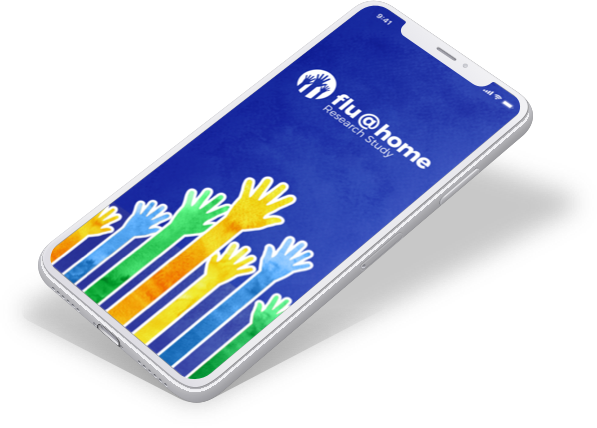
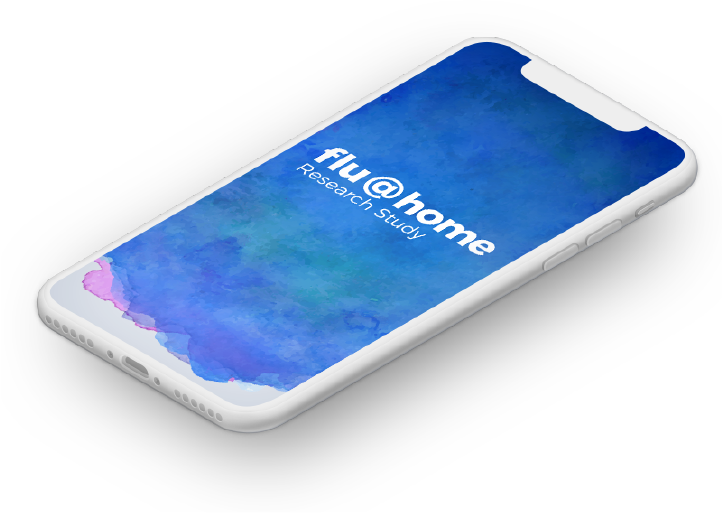
FEV-753 Updated home page of fluathome.org.au (#1407)
* FEV-757 Updated home page of fluathome.org.au

Added the new images and changed the how it works to how to participate. Changed the video

* FEV-753

Removing unused images

diff --git a/FluStudy_au/fluathome.org.au/home.html b/FluStudy_au/fluathome.org.au/home.html
@@ -76,63 +76,56 @@
                     <div class="how-it-works-bg">
                             <div class="how-it-works-diagonal"></div>
                     <div class="how-it-works-copy">
-                        <div class="steps-bar"></div>
-                        <h2>How it Works</h2>
-                        <p>Follow these steps to complete the study!</p>
+                        
+                        <h2>How to participate</h2>
                             <div class="steps">
                                 <div class="step-box">
                                     <div class="step one">
-                                        <img src="img/icon_HowItWorks_Step1.svg" alt="Receive flu@home Kit">
+                                        <img src="img/havesymptoms.png" alt="Receive flu@home Kit">
                                     </div>
                                     <div class="indicator one"></div>
-                                    <h3 class="two">Receive the flu@home Kit</h3>
+                                    <h3 class="two">Have flu-like symptoms? Visit your General Practitioner (GP)</h3>
                                 </div>
 
                                 <div class="step-box">
                                     <div class="step two">
-                                        <img src="img/icon_HowItWorks_Step2.svg" alt="Download the App">
+                                        <img src="img/areeligible.png" alt="Receive flu@home Kit">
                                     </div>
                                     <div class="indicator two"></div>
-                                    <h3 class="one">Download the App</h3>
+                                    <h3 class="one">If eligible, your GP will give you a test kit to complete at home</h3>
                                 </div>
 
                                 <div class="step-box">
                                     <div class="step three">
-                                        <img src="img/icon_HowItWorks_Step3.svg" alt="Complete Study">
+                                        <img src="img/downloadapp.png" alt="Download the App">
                                     </div>
                                     <div class="indicator three"></div>
-                                    <h3 class="three">Complete Study</h3>
+                                    <h3 class="three">Download the flu@home app. It will lead you through the test steps</h3>
                                 </div>
 
+				<div class="step-box">
+				    <div class="step four">
+					<img src="img/testresults.png" alt="Test Results">
+				    </div>
+				    <div class="indicator four"></div>
+				    <h3 class="four">The app will guide you through reading your flu test results</h3>
+					
+				</div>
+
                             </div>
-                            <div class="info">
-                                <p>The test itself takes about twenty minutes and only needs you to answer a few questions in the app telling us how you’re feeling and gently swab your nose. Please note, you must be at least 18 years of age and have flu-like symptoms to participate.</p>
-                                <p>We know you aren’t feeling well, but your participation could help us stop the spread of the flu, lead to personalized treatments, smarter prevention, and a safer and healthier world for all of us.</p>
-                            </div>
+                            
                         </div>
                     </div>
                 </section> 
                 <section id="UW-Message">
                     <div class="image">
                         <div class="video">
-                            <iframe width="560" height="315" src="https://www.youtube.com/embed/qedURDnXwSk" frameborder="0" allow="accelerometer; encrypted-media; gyroscope; picture-in-picture" allowfullscreen></iframe>
+                            <iframe width="560" height="315" src="https://www.youtube.com/embed/KqUmnxmSmiA" frameborder="0" allow="accelerometer; encrypted-media; gyroscope; picture-in-picture" allowfullscreen></iframe>
                         </div>
                     </div>
                     <div class="copy">
                         <h2>Why This Matters</h2>
                         <p>We know it’s lousy to feel sick – but with this test you’re helping to track the flu and learn whether people (like you) can test themselves at home. We’re on to something great and need your help. Join the Brotman Baty Institute, University of Washington Medicine, Fred Hutch, and Seattle Children’s Hospital as we undo the flu.</p>
-                    </div>
-                </section>
-                <section id="Flu-101">
-                    <div class="Flu-101-diagonal"></div>
-                    <div class="copy">
-                        <h2>Flu 101</h2>
-                        <p>Today, more than 30 million people get sick and suffer from the flu. We know that the flu is spread from person to person, and we know that it causes outbreaks every year. What we don’t know is exactly how it spreads, and why certain flu strains are stronger and more dangerous than others. We’re on a mission to change that. Part of that is understanding more about the flu, and part of it is helping to stem its spread. This test helps us along the path for both.</p>
-                        <h2>Is it the flu?</h2>
-                        <p>Only 10-20% of people who have flu-like symptoms actually have the flu virus. This is important because anti-viral medications, like Tamiflu, are only effective against the flu virus.</p>
-                    </div>
-                    <div class="image">
-                        <img src="img/hands_flu101_watercolor.png" alt="Flu@Home Hands">
                     </div>
                 </section>
             </div>

diff --git a/FluStudy_au/fluathome.org.au/css/app.css b/FluStudy_au/fluathome.org.au/css/app.css
@@ -327,13 +327,6 @@ nav {
       width: 45%;
       max-width: none; } }
 
-.steps {
-  width: 100%;
-  display: block;
- }
- .step-box {
-   width: 100%;
- }
   @media screen and (min-width: 53.25em) {
     .steps {
       display: flex;
@@ -345,76 +338,18 @@ nav {
     .step-box {
     width: 23%;
     } }
-  .steps .step {
-    padding: 1em 1em 2em 1em;
-    background: #ffffff; }
-    .steps .step.one {
-      border-top: 0.938em solid #0A5CA8; }
-    .steps .step.two {
-      border-top: 0.938em solid #2E97BB; }
-    .steps .step.three {
-      border-top: 0.938em solid #1BAB4C; }
-    .steps .step.four {
-      border-top: 0.938em solid #FF5700;
-      background: #FF5700; }
+    
     .steps .step img {
       margin: 0 auto;
       display: block; }
-  .steps .indicator {
-    border-radius: 50%;
-    border: 5px solid #D7DBE5;
-    justify-self: center;
-    margin-top: -0.5em;
-    position: relative;
-    height: 1.5em;
-    width: 1.5em;
-    text-align: center; 
-    margin-left: auto;
-    margin-right: auto; }
-    .steps .indicator:after {
-      color: #ffffff;
-      font-weight: 700;
-      text-align: center;
-      font-size: 1.1em;
-      line-height: 1.4em; }
-    @media screen and (min-width: 53.25em) {
-      .steps .indicator {
-        height: 0.813em;
-        width: 0.813em; } }
-    .steps .indicator.one {
-      background: #0A5CA8; }
-      @media screen and (max-width: 53.25em) {
-        .steps .indicator.one:after {
-          content: "1"; } }
-    .steps .indicator.two {
-      background: #2E97BB; }
-      @media screen and (max-width: 53.25em) {
-        .steps .indicator.two:after {
-          content: "2"; } }
-    .steps .indicator.three {
-      background: #1BAB4C; }
-      @media screen and (max-width: 53.25em) {
-        .steps .indicator.three:after {
-          content: "3"; } }
-    .steps .indicator.four {
-      background: #FF5700; }
-      @media screen and (max-width: 53.25em) {
-        .steps .indicator.four:after {
-          content: "4"; } }
+
   .steps h3 {
     text-align: center;
     align-self: center;
-    font-size: 1.500em;
+    font-size: 1.400em;
     font-weight: 700;
-    padding: 1.5em 1em; }
-    .steps h3.one {
-      color: #0A5CA8; }
-    .steps h3.two {
-      color: #2E97BB; }
-    .steps h3.three {
-      color: #1BAB4C; }
-    .steps h3.four {
-      color: #FF5700; }
+    padding: 7em 0em; }
+    
 
 .video {
   position: relative;
